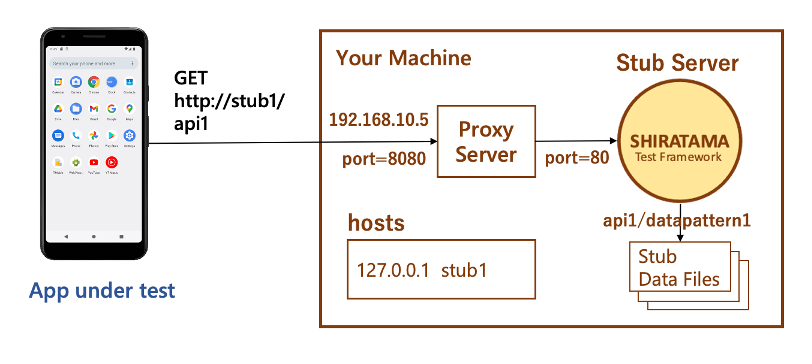
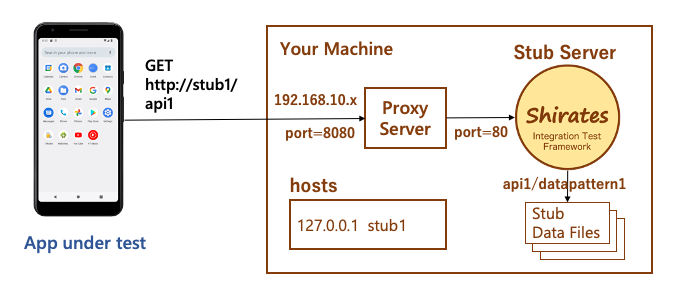
Document

diff --git a/docs/markdown/quick-start.md b/docs/markdown/quick-start.md
@@ -6,10 +6,28 @@ Install following prerequisite tool.
 
 ### IntelliJ IDEA
 
-If you have not installed IntelliJ IDEA, download Ultimate or Community and install it.
+If you have not installed IntelliJ IDEA, download **Ultimate** or **Community** and install it.
 (Community is open source product)
 
 https://www.jetbrains.com/idea/
+
+<br>
+
+## Configuring hosts file
+### Mac
+1. Open `/private/etc/hosts` with editor.
+2. Append following line.
+```
+127.0.0.1   stub1
+```
+
+### Windows
+1. Open `C:\Windows\System32\drivers\etc\hosts` with editor.
+2. Append following line.
+```
+127.0.0.1   stub1
+```
+
 
 <br>
 
@@ -25,8 +43,8 @@ git clone https://github.com/ldi-github/shirates-stub.git
 
 ## Opening project
 
-1. Open shirates-stub project (double-click on build.gradle.kts)
-1. Wait for a while until background tasks finish. It takes minutes.
+1. Open `shirates-stub` project (right click on `build.gradle.kts` and open with IntelliJ IDEA).
+2. Wait for a while until background tasks finish. It takes minutes.
 
 <br>
 
@@ -37,7 +55,7 @@ git clone https://github.com/ldi-github/shirates-stub.git
 
 ![](_images/run_application.png)
 
-3. Open http://localhost/ in browser.
+3. Open http://stub1/ in browser.
 
 ![](_images/localhost.png)
 
@@ -47,7 +65,7 @@ If you encountered SDK problem, try following procedures.
 
 ## Setting SDKs
 
-1. File > Project Structure
+1. `File > Project Structure`
 
 ![](_images/sdks_1.png)
 
@@ -80,25 +98,28 @@ If you encountered SDK problem, try following procedures.
 /// 
 ----------------------------------------------------------------------------------------------------
 lineNo	logDateTime	[logType]	<threadId>	apiName	{dataPattern}	elapsed(ms)	message
-1	2022/01/24 09:50:39.145	[INFO]	<17>	-	{}	-	Loading stub configuration. (file=/Users/n.senba/dev/shirates-stub/data/config/stubConfig.json)
-2	2022/01/24 09:50:39.153	[INFO]	<17>	-	{}	-	Loading keys. (file=/Users/n.senba/dev/shirates-stub/data/config/keys/staging.keys.json)
-3	2022/01/24 09:50:39.154	[INFO]	<17>	-	{}	-	Setting urlPath -> dataPatternName
-4	2022/01/24 09:50:39.172	[INFO]	<17>	-	{}	-	"/customer/list" -> "default"
-5	2022/01/24 09:50:39.174	[INFO]	<17>	-	{}	-	"/product/list" -> "default"
-6	2022/01/24 09:50:39.176	[INFO]	<17>	-	{}	-	"/supplier/list" -> "default"
-7	2022/01/24 09:50:39.182	[INFO]	<17>	-	{}	-	Mapping urlPath to ApiDescription.
-8	2022/01/24 09:50:39.219	[INFO]	<17>	-	{}	-	["/management/getDataPattern"]="getDataPattern(API)"
-9	2022/01/24 09:50:39.219	[INFO]	<17>	-	{}	-	["/management/listDataPattern"]="listDataPattern(API)"
-10	2022/01/24 09:50:39.219	[INFO]	<17>	-	{}	-	["/management/resetStubDataManager"]="resetStubDataManager(API)"
-11	2022/01/24 09:50:39.220	[INFO]	<17>	-	{}	-	["/management/setDataPattern"]="setDataPattern(API)"
-12	2022/01/24 09:50:39.221	[INFO]	<17>	-	{}	-	["/management/changeDataPattern"]="changeDataPattern(Page)"
-13	2022/01/24 09:50:39.221	[INFO]	<17>	-	{}	-	["/management/changeAllDataPatternsToDefault"]="changeAllDataPatternsToDefault(Page)"
-14	2022/01/24 09:50:39.221	[INFO]	<17>	-	{}	-	["/management/dataPatternChanger"]="dataPatternChanger(Page)"
-15	2022/01/24 09:50:39.221	[INFO]	<17>	-	{}	-	["/management/cryptTool"]="cryptTool(Page)"
-16	2022/01/24 09:50:39.222	[INFO]	<17>	-	{}	-	["/customer/list"]="CustomerList"
-17	2022/01/24 09:50:39.222	[INFO]	<17>	-	{}	-	["/product/list"]="ProductList"
-18	2022/01/24 09:50:39.223	[INFO]	<17>	-	{}	-	["/supplier/list"]="SupplierList"
-19	2022/01/24 09:50:39.223	[INFO]	<17>	-	{}	-	["/stubtest"]="StubTest"
+1	2022/09/28 00:37:45.858	[INFO]	<19>	-	{}	-	Loading stub configuration. (file=/Users/wave1008/github/ldi-github/shirates-stub/data/config/stubConfig.json)
+2	2022/09/28 00:37:45.870	[INFO]	<19>	-	{}	-	Loading keys. (file=/Users/wave1008/github/ldi-github/shirates-stub/data/config/keys/staging.keys.json)
+3	2022/09/28 00:37:45.871	[INFO]	<19>	-	{}	-	Setting urlPath -> dataPatternName
+4	2022/09/28 00:37:45.880	[INFO]	<19>	-	{}	-	"/customer/list" -> "default"
+5	2022/09/28 00:37:45.881	[INFO]	<19>	-	{}	-	"/product/list" -> "default"
+6	2022/09/28 00:37:45.882	[INFO]	<19>	-	{}	-	"/supplier/list" -> "default"
+7	2022/09/28 00:37:45.885	[INFO]	<19>	-	{}	-	Mapping urlPath to ApiDescription.
+8	2022/09/28 00:37:45.922	[INFO]	<19>	-	{}	-	["/management/decrypt"]="decrypt(API)"
+9	2022/09/28 00:37:45.923	[INFO]	<19>	-	{}	-	["/management/encrypt"]="encrypt(API)"
+10	2022/09/28 00:37:45.923	[INFO]	<19>	-	{}	-	["/management/getDataPattern"]="getDataPattern(API)"
+11	2022/09/28 00:37:45.923	[INFO]	<19>	-	{}	-	["/management/listDataPattern"]="listDataPattern(API)"
+12	2022/09/28 00:37:45.923	[INFO]	<19>	-	{}	-	["/management/resetDataPattern"]="resetDataPattern(API)"
+13	2022/09/28 00:37:45.923	[INFO]	<19>	-	{}	-	["/management/resetStubDataManager"]="resetStubDataManager(API)"
+14	2022/09/28 00:37:45.923	[INFO]	<19>	-	{}	-	["/management/setDataPattern"]="setDataPattern(API)"
+15	2022/09/28 00:37:45.925	[INFO]	<19>	-	{}	-	["/management/changeDataPattern"]="changeDataPattern(Page)"
+16	2022/09/28 00:37:45.925	[INFO]	<19>	-	{}	-	["/management/changeAllDataPatternsToDefault"]="changeAllDataPatternsToDefault(Page)"
+17	2022/09/28 00:37:45.925	[INFO]	<19>	-	{}	-	["/management/dataPatternChanger"]="dataPatternChanger(Page)"
+18	2022/09/28 00:37:45.925	[INFO]	<19>	-	{}	-	["/management/cryptTool"]="cryptTool(Page)"
+19	2022/09/28 00:37:45.928	[INFO]	<19>	-	{}	-	["/customer/list"]="CustomerList"
+20	2022/09/28 00:37:45.929	[INFO]	<19>	-	{}	-	["/product/list"]="ProductList"
+21	2022/09/28 00:37:45.930	[INFO]	<19>	-	{}	-	["/supplier/list"]="SupplierList"
+22	2022/09/28 00:37:45.931	[INFO]	<19>	-	{}	-	["/stubtest"]="StubTest"
 
 [stubConfig]
  urlValueEncode: false
@@ -109,7 +130,7 @@ lineNo	logDateTime	[logType]	<threadId>	apiName	{dataPattern}	elapsed(ms)	messag
  plain ... Decrypt to plain text. ex. http://stub1/customer/list?plain
  format ... Format JSON. ex. http://stub1/customer/list?plain&format
  0 ... Decrypt to plain text, then format JSON. ex. http://stub1/customer/list?0
-```
+ ```
 
 <br>
 

diff --git a/docs/markdown/management/management_api.md b/docs/markdown/management/management_api.md
@@ -5,7 +5,7 @@ You can control shirates-stub with management APIs.
 | Method | Url-Path(args)                                       | description                                    |
 |:-------|:-----------------------------------------------------|:-----------------------------------------------|
 | GET    | /management/resetStubDataManager                     | Reset stub-data-manager                        |
-| GET    | /management/listDataPattern                          | Returns list of data pattern                   |
+| GET    | /management/listDataPattern                          | Returns a list of data pattern                 |
 | GET    | /management/getDataPattern(urlPath)                  | Returns data pattern name bound to the urlPath |
 | GET    | /management/setDataPattern(urlPath, dataPatternName) | Binds dataPatternName to urlPath               |
 

diff --git a/docs/markdown/deploying_on_your_desktop/setting_up_proxy.md b/docs/markdown/deploying_on_your_desktop/setting_up_proxy.md
@@ -11,7 +11,7 @@ You should set up **proxy server** and **hosts** on your machine as follows.
 
 ## Example
 
-1. Set up a proxy server on your machine. `192.168.10.5` is IP address leased by DHCP server.
+1. Set up a proxy server on your machine. `192.168.10.x` is IP address leased by DHCP server.
 
 
 2. Bind loopback address `127.0.0.1` to stub1 in hosts file.
